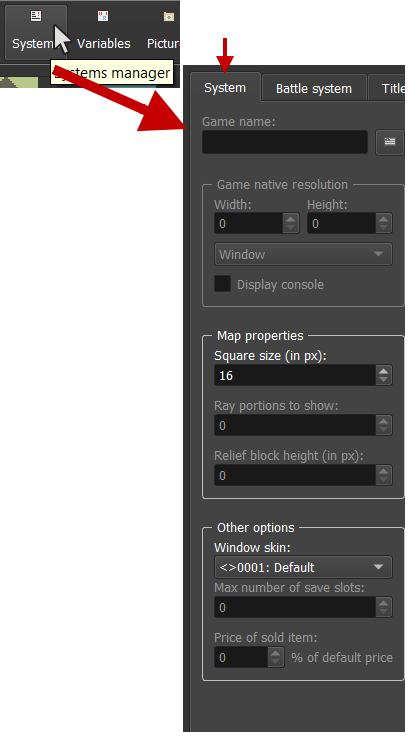
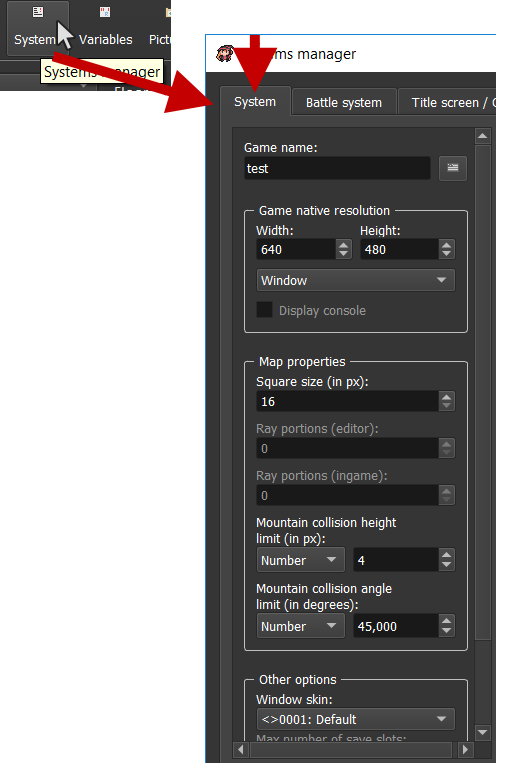
Deployed 874d546 with MkDocs version: 0.14.0

Changed region(s): [[0.0, 0.0, 0.9952, 0.9933]]

diff --git a/index.html b/index.html
@@ -230,7 +230,6 @@
 <p>RPG Paper Maker is free for non commercial use. You don't have any fee to pay as long as you don't plan to publish commercial games done with RPG Paper Maker.</p>
 <p>RPG Paper Maker is proprietary licensed. See the RPG Paper Maker EULA <a href="http://rpg-paper-maker.com/index.php/eula">here</a>. RPG Paper Maker was previously open source, but the software keeps a lot of these aspects (source code access on github, free for non commercial use...). Feel free to contribute to the github repository <a href="https://github.com/RPG-Paper-Maker/RPG-Paper-Maker">here</a> if you have any skills in programming, project management, etc. <strong>Be aware that any contribution becomes RPG Paper Maker property, but we guaranty that RPG Paper Maker will always be available for free.</strong></p>
 <p>If you want to support us financially for the free model, check out our <a href="https://www.patreon.com/rpgpapermaker/overview">Patreon</a>!</p>
-<p><strong>The commercial license is not released yet. This is comming out soon.</strong></p>
 <h2 id="community-and-support">Community and support</h2>
 <p>If you are experiencing any issue on RPG Paper Maker, feel free to ask for some help in the <a href="http://rpg-paper-maker.com/index.php/forum">website forums</a>. You can also share your creations and propose your wanted <a href="https://feathub.com/RPG-Paper-Maker/RPG-Paper-Maker">next features</a>.</p>
 <h2 id="installation">Installation</h2>
@@ -258,13 +257,16 @@
 <p>A lot of options are available in the <code>Systems manager</code>. Click here on the main toolbar and go to the <code>System</code> tab:</p>
 <p><img alt="Screenshot" src="./img/system-basic.png" /></p>
 <ul>
-<li><code>Game name</code>: <em>(not available yet)</em> Change the name of your game.</li>
-<li><code>Game native resolution</code>: <em>(not available yet)</em> Change width / height resolution and also choose if you want a Window or Fullscreen display. <code>Display console</code> option is for programing debugging.</li>
+<li><code>Game name</code>: Change the name of your game.</li>
+<li><code>Game native resolution</code>: Change width / height resolution and also choose if you want a Window or Fullscreen display. <code>Display console</code> option is for programing debugging.</li>
 <li><code>Square size (in px)</code>: choose here the size (in pixel) of a square in your maps. You should adapt your textures after any change here.</li>
-<li><code>Ray portions to show</code>: <em>(not available yet)</em> The map is separated into several portions (16x16 squares). You can change here the number of portions to display.</li>
-<li><code>Relief block height (in px)</code>: <em>(not available yet)</em> The height considered for blocking the hero so the hero can go up blocks that are in inferior height value.</li>
+<li><code>Ray portions (editor)</code>: <em>(not available yet)</em> The map is separated into several portions (16x16 squares). You can change here the number of portions to display.</li>
+<li><code>Ray portions (ingame)</code>: <em>(not available yet)</em> Same but for ingame.</li>
+<li><code>Mountain collision height limit (in px)</code>: The height considered for blocking the hero so the hero can go up blocks that are in inferior height value.</li>
+<li><code>Mountain collision angle limit (in degree)</code>: The angle considered for blocking the hero so the hero can go up mountains that are in inferior angle value.</li>
 <li><code>Max number of save slots</code>: <em>(not available yet)</em> Change the max number of save slots available for the players.</li>
 <li><code>Price of sold item</code>: <em>(not available yet)</em> Change the percent value of the original price of an item when you want to sell it in a shop.</li>
+<li><code>Window skin</code>: The default windows skin used for designing windows UI.</li>
 </ul>
 <h2 id="update-keyboard-controls">Update keyboard controls</h2>
 <p>You can change the engine and game keyboard controls in the keyboard manager by clicking on the main toolbar:</p>
@@ -373,5 +375,5 @@
 
 <!--
 MkDocs version : 0.14.0
-Build Date UTC : 2019-07-12 10:56:41.012510
+Build Date UTC : 2019-07-25 13:11:42.829360
 -->

diff --git a/basics/tilesets-and-collisions/index.html b/basics/tilesets-and-collisions/index.html
@@ -105,9 +105,9 @@
                 
                     <li><a class="toctree-l4" href="#sprites-walls">Sprites walls</a></li>
                 
-                    <li><a class="toctree-l4" href="#3d-objects">3D objects</a></li>
+                    <li><a class="toctree-l4" href="#mountains">Mountains</a></li>
                 
-                    <li><a class="toctree-l4" href="#reliefs">Reliefs</a></li>
+                    <li><a class="toctree-l4" href="#3d-objects">3D objects</a></li>
                 
             
             </ul>
@@ -266,15 +266,26 @@
 <p><img alt="Screenshot" src="../img/autotiles-preview.png" /></p>
 <p>Don't forget to add your autotiles in the tileset:</p>
 <p><img alt="Screenshot" src="../img/autotiles-tileset.png" /></p>
+<p>This can also be done in the texture selector <strong>(2)</strong>:</p>
+<p><img alt="Screenshot" src="../img/autotiles-update-list.png" /></p>
 <h2 id="animated-autotiles">Animated autotiles</h2>
 <p><em>Not available yet.</em></p>
 <h2 id="sprites-walls">Sprites walls</h2>
 <p>You can manage the walls the same way you did for autotiles in:</p>
 <ul>
 <li>Collisions manager</li>
+<li>In the texture selector</li>
 <li><code>Tilesets</code> tab in datas manager:</li>
 </ul>
 <p><img alt="Screenshot" src="../img/walls-tileset.png" /></p>
+<h2 id="mountains">Mountains</h2>
+<p>You can manage the mountains the same way you did for autotiles in:</p>
+<ul>
+<li>In the texture selector</li>
+<li><code>Tilesets</code> tab in datas manager:</li>
+</ul>
+<p><img alt="Screenshot" src="../img/mountains-tileset.png" /></p>
+<p>To manage collisions with mountains, go to <code>Systems manager &gt; System</code> and set the <code>Mountain collisions height limit (in px)</code> and <code>Mountain collisions angle limit (in degree)</code>.</p>
 <h2 id="3d-objects">3D objects</h2>
 <p>You can manage the 3D objects list by clicking here on the main toolbar:</p>
 <p><img alt="Screenshot" src="../img/objects-3d-list.png" /></p>
@@ -327,8 +338,7 @@
 </ul>
 <p>Don't forget to add your objects in the tileset:</p>
 <p><img alt="Screenshot" src="../img/objects-3d-tileset.png" /></p>
-<h2 id="reliefs">Reliefs</h2>
-<p><em>Not available yet.</em></p>
+<p>(or use the texture selector)</p>
               
             </div>
           </div>

diff --git a/basics/map-editor-basics/index.html b/basics/map-editor-basics/index.html
@@ -95,6 +95,8 @@
                 
                     <li><a class="toctree-l4" href="#sprites">Sprites</a></li>
                 
+                    <li><a class="toctree-l4" href="#mountains">Mountains</a></li>
+                
                     <li><a class="toctree-l4" href="#3d-objects">3D Objects</a></li>
                 
                     <li><a class="toctree-l4" href="#objects">Objects</a></li>
@@ -335,6 +337,25 @@
 <p><img alt="Screenshot" src="../img/walls-preview.png" /></p>
 <p>In the texture selector <strong>(2)</strong>, you just have to select a wall:</p>
 <p><img alt="Screenshot" src="../img/walls-texture.png" /></p>
+<h2 id="mountains">Mountains</h2>
+<p>You can add some reliefs to your map thanks to mountains!</p>
+<p><img alt="Screenshot" src="../img/mountains-preview.png" /></p>
+<p>In the texture selector <strong>(2)</strong>, you have several possible options for designing your mountains:</p>
+<p><img alt="Screenshot" src="../img/mountains-texture.png" /></p>
+<ul>
+<li><code>Top floor</code>: The floor that whill be automatically added on top of the mountains. This floor depends on the tileset texture. Click on the <code>...</code> button to edit the top floor.</li>
+<li><code>Border width</code>: If the border width is equal to zero, this will be a 90° mountain. You can adjust here the width of the borders of the mountains (this will create small slopes).<ul>
+<li><code>Square(s)</code>: Select the number of squares.</li>
+<li><code>Pixel(s)</code>: Select the number of pixels added.</li>
+</ul>
+</li>
+<li><code>Height</code>: The total height of the mountain.<ul>
+<li><code>Square(s)</code>: Select the number of squares.</li>
+<li><code>Pixel(s)</code>: Select the number of pixels added.</li>
+</ul>
+</li>
+</ul>
+<p>Note that you can se the angle value bellow these options so you can refer to this for angle collisions in <code>Systems manager &gt; System</code>.</p>
 <h2 id="3d-objects">3D Objects</h2>
 <p>There are not only sprites, but also 3D objects available for your maps! </p>
 <p><img alt="Screenshot" src="../img/objects-3d-preview.png" /></p>
